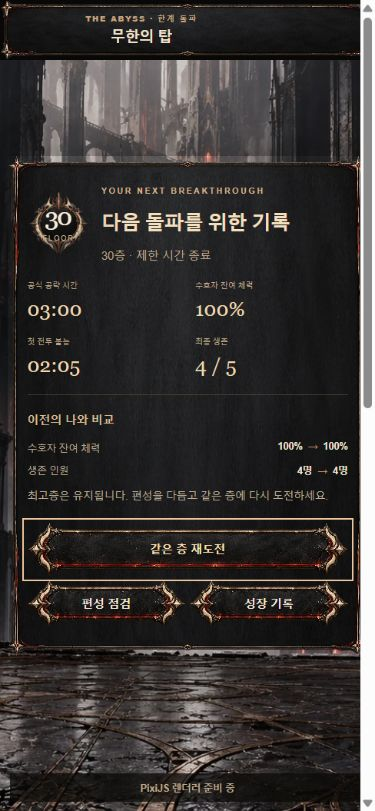
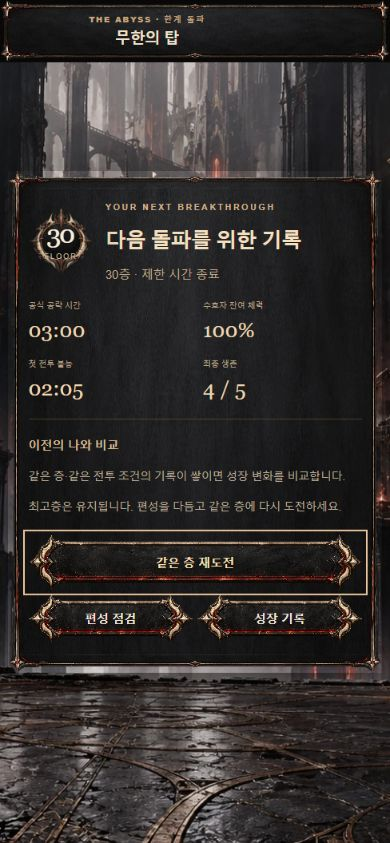
docs: record Tower Abyss UI production verification [CF-Pages-Skip]

diff --git a/docs/qa/tower-abyss-ui-20261021/README.md b/docs/qa/tower-abyss-ui-20261021/README.md
@@ -55,3 +55,14 @@
 두 작업을 합친 운영 파일이 20,005개가 되어 Pages 제한을 초과했다. 런타임에서 참조하지 않는 Tower 작성용 문서 4개와 이미 번들된 `source/app.mjs` 1개만 배포 대상에서 제외해 정확히 20,000개로 맞췄다. 다섯 원본은 Git에 보존한다. 실제 연결된 기획 문서, 기존 프리뷰의 HTML/번들, 새 이미지 4개는 계속 배포한다. `tests/tower-abyss-delivery-20261021.test.mjs`가 원본·파생 해시, 런타임 포함, 작성 파일 보존, 스크립트 순서와 전체 파일 수를 확인한다.
 
 무한의탑의 국소 UI 개편이고 공통 엔진 변경은 Tower 배경 연결/캐시 버전뿐이다. DB·인증·정산 정책·의존성 변경 없이 `npm run deploy:production -- --scoped`를 사용한다. 원본/QA는 docs/qa 아래에 보존하고 운영 파일은 새 WebP 4개와 JS/CSS 2개만 추가한다. 배포 완료 후 실제 소스·파일 해시를 아래에 기록한다.
+
+### 운영 반영 완료
+
+- 운영 소스: `dc7e290c83cae57d7ecbccc5f152174cb9a7edf8`.
+- Cloudflare Pages: `b34750f7-3feb-4f72-a10f-5aaf3a5c9de5`, `https://b34750f7.cnine-card.pages.dev`.
+- API runtime: `d2bedc1f-8658-4fcb-9b2a-cfa8d9eb3fcc`; scheduler: `456cfeb6-cd87-4c7c-af59-d900d46c208a`.
+- 최종 scoped 검사 16개 전부 통과. 운영 release guard와 Hyperdrive 캐시 검사 통과.
+- 최초 배포 전 검사에서 `app.js` 캐시 파라미터 순서가 기존 release guard와 맞지 않아 차단됐다. `v`를 첫 파라미터로 보존하고 Tower 갱신 키를 뒤에 붙여 수정했다. guard를 완화하지 않았고 실패 시점에는 운영 배포가 시작되지 않았다.
+- `https://cnine-card.pages.dev`에서 index/app, Tower UI/controller/CSS, 공통 전투 연결·번들, 전용 이미지 4개, 봉인전 JS/CSS 등 16개 파일이 로컬 검수본 SHA-256과 모두 일치했다. 익명 `GET /api/tower/status`는 401로 인증을 유지했다.
+- 최종 390×844 결과 화면은 가로 넘침 없이 374×503px 안에 표시되고 버튼 높이는 48.8px 이상이다. `mobile-390-result.png`는 스크롤 잠금·하단 준비 문구 숨김을 포함한 최종 증빙으로 교체했다.
+- 상세 운영 확인: `live-verification.json`. 사용자 시각 승인 상태는 계속 `PENDING_USER_REVIEW`다.
